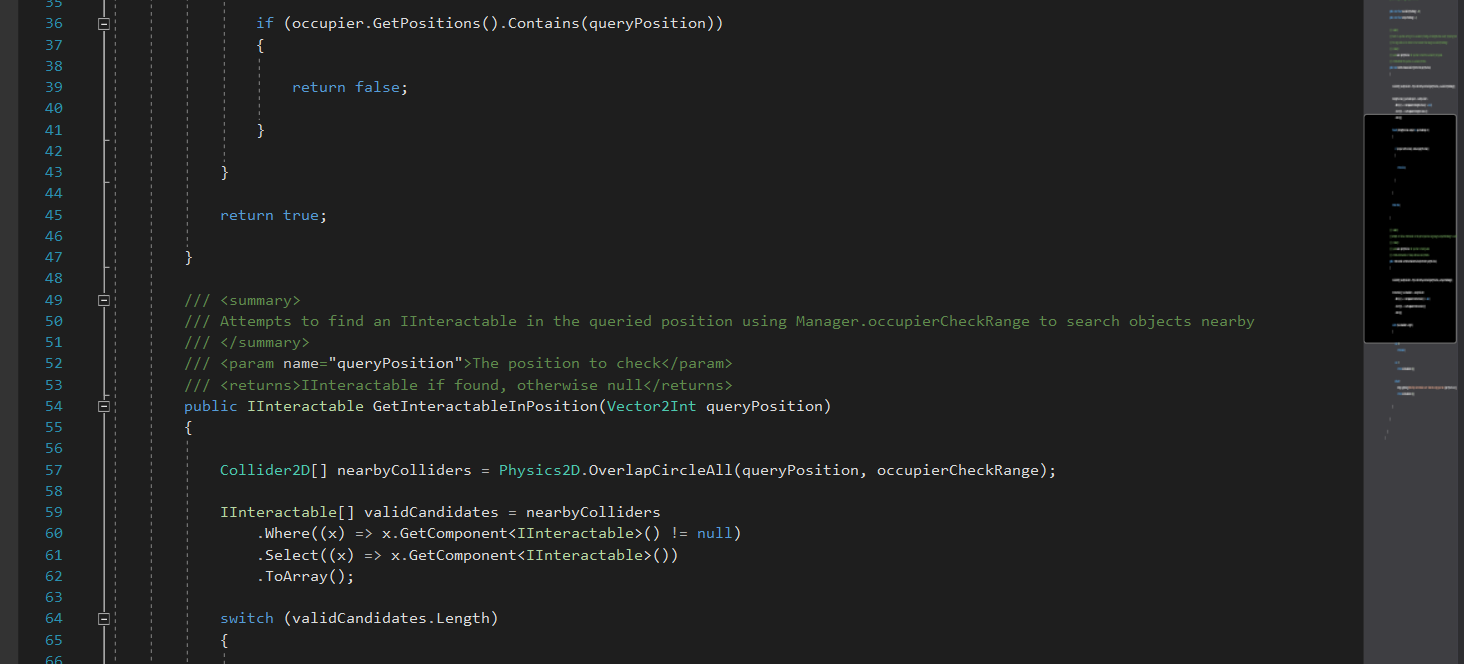
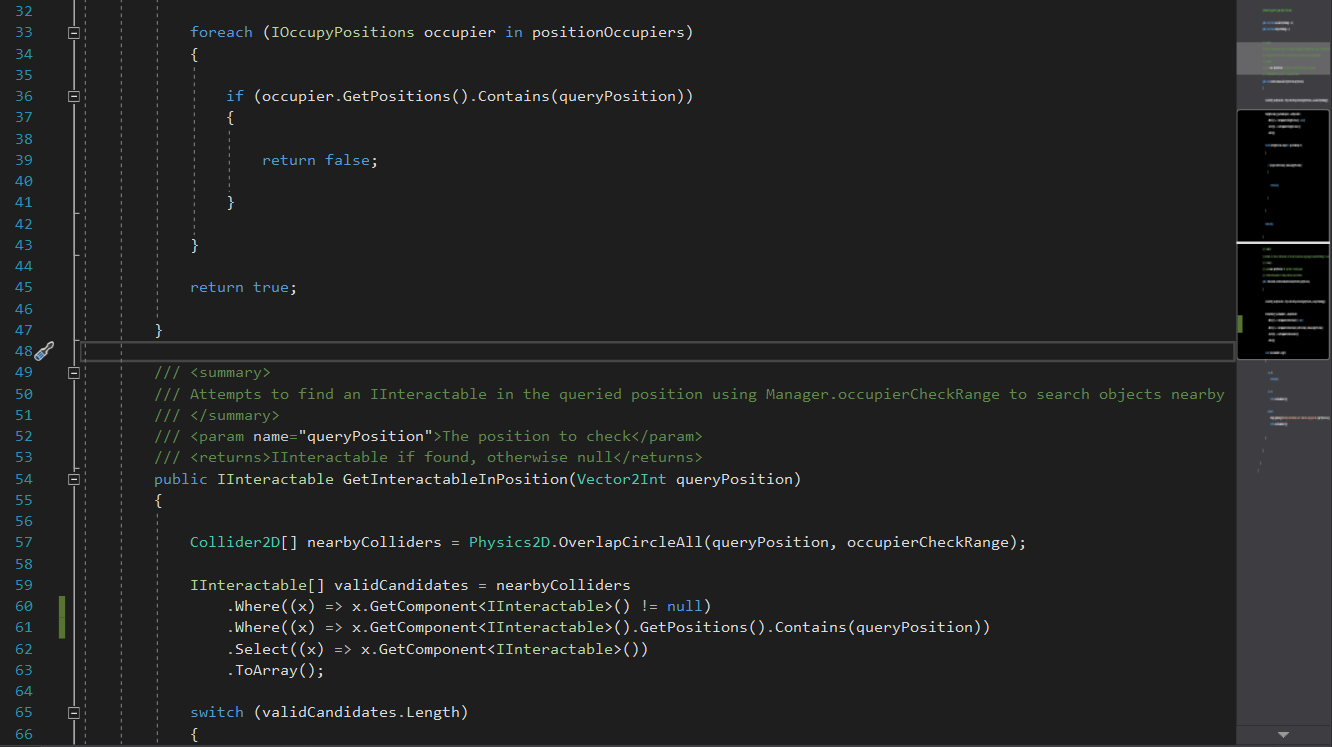
IInteractable implementing IOccupyPositions

diff --git a/Assets/Scripts/Gridwise/Manager.cs b/Assets/Scripts/Gridwise/Manager.cs
@@ -37,7 +37,7 @@ namespace Gridwise
                 {
 
                     return false;
-
+                    
                 }
 
             }
@@ -57,8 +57,8 @@ namespace Gridwise
             Collider2D[] nearbyColliders = Physics2D.OverlapCircleAll(queryPosition, occupierCheckRange);
 
             IInteractable[] validCandidates = nearbyColliders
-                .Where((x) => x.GetComponent<IInteractable>() != null && x.GetComponent<IOccupyPositions>() != null)
-                .Where((x) => x.GetComponent<IOccupyPositions>().GetPositions().Contains(queryPosition))
+                .Where((x) => x.GetComponent<IInteractable>() != null)
+                .Where((x) => x.GetComponent<IInteractable>().GetPositions().Contains(queryPosition))
                 .Select((x) => x.GetComponent<IInteractable>())
                 .ToArray();
 

diff --git a/Assets/Scripts/Gridwise/IInteractable.cs b/Assets/Scripts/Gridwise/IInteractable.cs
@@ -5,10 +5,8 @@ using Gridwise;
 
 namespace Gridwise
 {
-    /// <summary>
-    /// Interactable object. Must also implement IOccupyPositions
-    /// </summary>
-    public interface IInteractable
+
+    public interface IInteractable : IOccupyPositions
     {
 
         //Allows the object to be interacted with knowing which game character interacted with it

diff --git a/Assets/Scripts/Gridwise/PlayerController.cs b/Assets/Scripts/Gridwise/PlayerController.cs
@@ -5,10 +5,13 @@ using Gridwise;
 
 namespace Gridwise
 {
-    public class PlayerController : MonoBehaviour
+    public class PlayerController : GameCharacterController, IInteractable
     {
 
-        
+        public void Interact(GameCharacterController interactee)
+        {
+            throw new System.NotImplementedException();
+        }
 
     }
 }

diff --git a/Assets/Scripts/Gridwise/GameCharacterController.cs b/Assets/Scripts/Gridwise/GameCharacterController.cs
@@ -169,7 +169,8 @@ namespace Gridwise
 
             position = Vector2Int.RoundToInt(transform.position);
 
-            if (!spriteGroupName.Equals(""))
+            if ((!spriteGroupName.Equals(""))
+                && spriteGroupName != null)
                 LoadSprites();
             
         }
